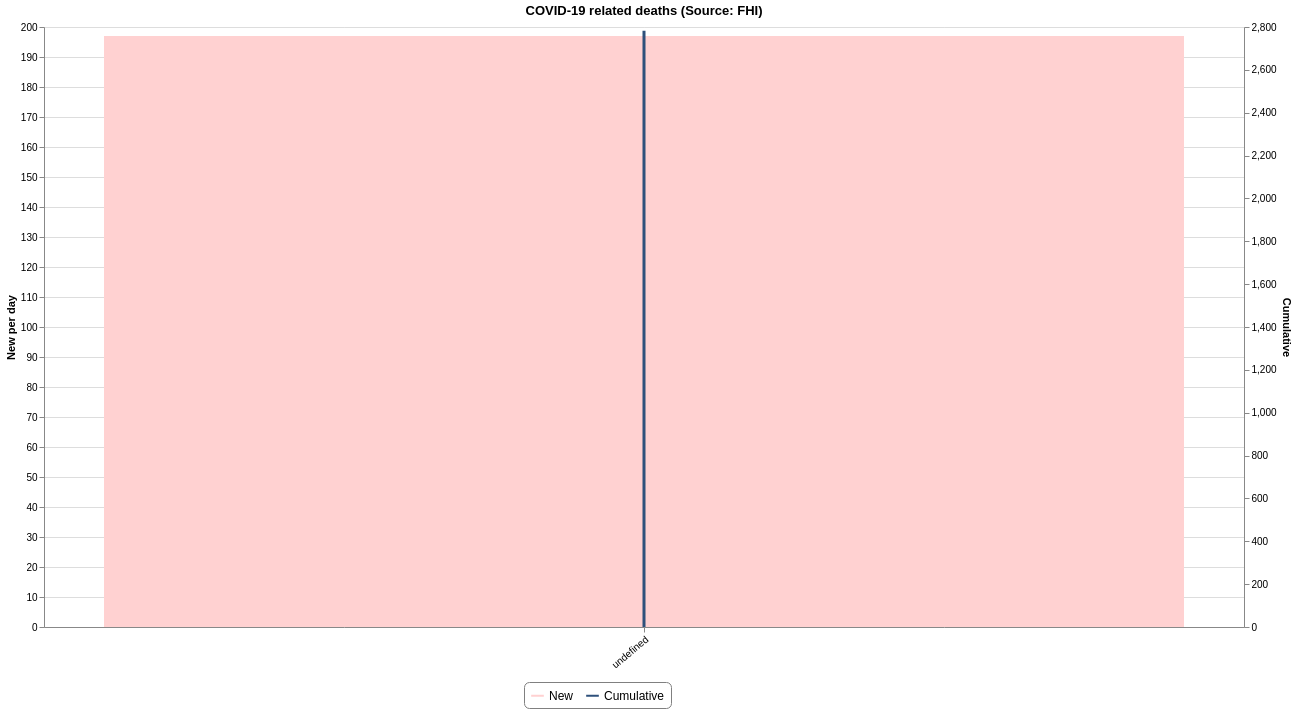
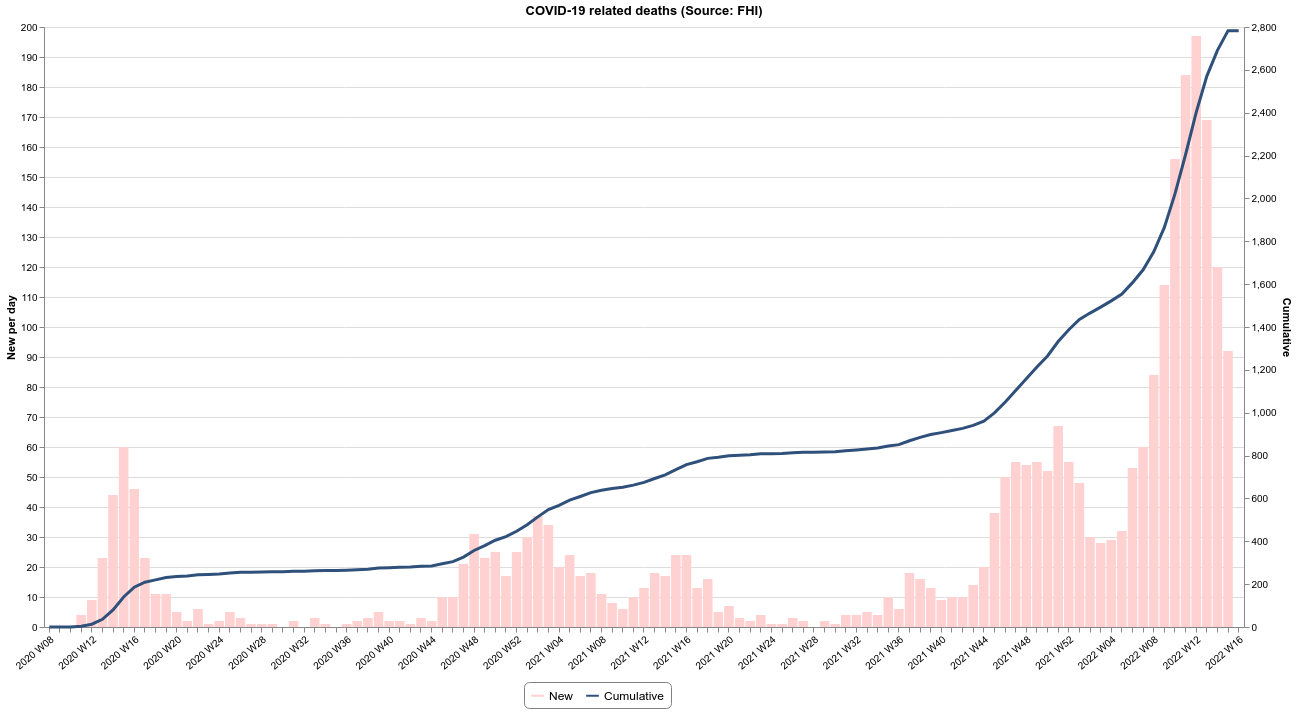
Fix deaths graph

diff --git a/src/utils/graphs.py b/src/utils/graphs.py
@@ -161,6 +161,7 @@ def dead():
         os.remove(filename)
 
     df = pd.read_csv(data)
+    df["date"] = pd.to_datetime(df["date"])
 
     df["new"] = df["new"].fillna(0).astype(int)
     df["total"] = df["total"].fillna(method="bfill").astype(int)

diff --git a/README.md b/README.md
@@ -11,7 +11,7 @@ This repository contains datasets of daily time-series data related to COVID-19 
 |Data|Source|Last updated|Download|Preview|
 | :--- | :--- | :--- | :--- | :--- |
 |[Confirmed](#confirmedcsv)|FHI / MSIS|2022-04-15 15:20:47+02:00|[<center>csv</center>](https://raw.githubusercontent.com/frefrik/covid19norge-data/main/data/confirmed.csv)|[<center>preview</center>](data/confirmed.csv)|
-|[Dead](#deadcsv)|FHI|2022-04-15 14:57:25+02:00|[<center>csv</center>](https://raw.githubusercontent.com/frefrik/covid19norge-data/main/data/dead.csv)|[<center>preview</center>](data/dead.csv)|
+|[Dead](#deadcsv)|FHI|2022-04-15 15:52:47+02:00|[<center>csv</center>](https://raw.githubusercontent.com/frefrik/covid19norge-data/main/data/dead.csv)|[<center>preview</center>](data/dead.csv)|
 |[Hospitalized](#hospitalizedcsv)|Helsedirektoratet|2022-03-22 12:50:44+01:00|[<center>csv</center>](https://raw.githubusercontent.com/frefrik/covid19norge-data/main/data/hospitalized.csv)|[<center>preview</center>](data/hospitalized.csv)|
 |[Tested](#testedcsv)|FHI|2022-04-15 13:10:43+02:00|[<center>csv</center>](https://raw.githubusercontent.com/frefrik/covid19norge-data/main/data/tested.csv)|[<center>preview</center>](data/tested.csv)|
 |[Tested Lab](#tested_labcsv)|FHI|2022-04-15 13:20:48+02:00|[<center>csv</center>](https://raw.githubusercontent.com/frefrik/covid19norge-data/main/data/tested_lab.csv)|[<center>preview</center>](data/tested_lab.csv)|
